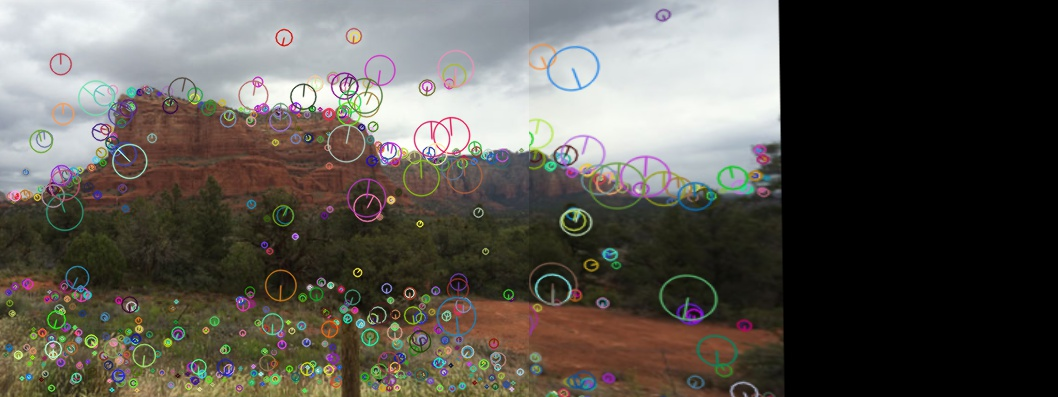
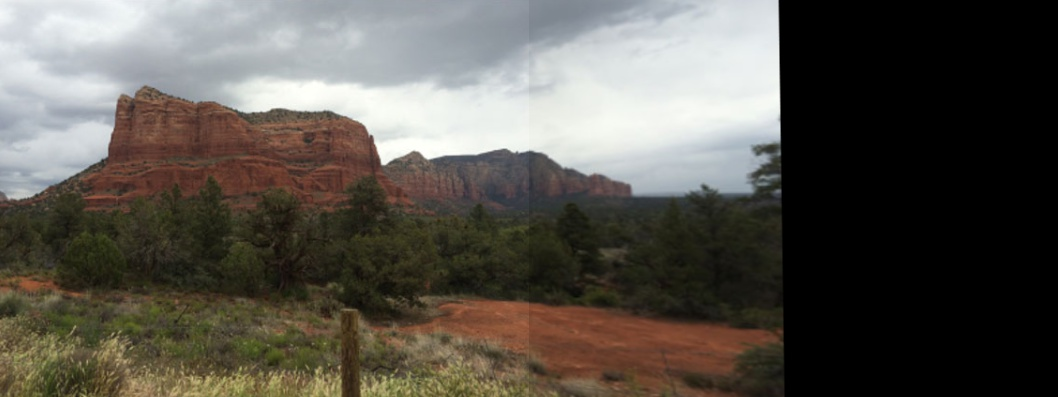
project2 complete

diff --git a/project2/task2.py b/project2/task2.py
@@ -25,100 +25,67 @@ def solution(left_img, right_img):
     :param right_img:
     :return: you need to return the result image which is stitched by left_img and right_img
     """
-    # 1 Find Key point using harris detector
-    lgray = cv2.cvtColor(left_img, cv2.COLOR_BGR2GRAY)
-    lgray = np.float32(lgray)
-    # dst = cv2.cornerHarris(lgray, 2, 3, 0.04)
-    # dst = cv2.dilate(dst, None)
-    # left_img[dst > 0.01 * dst.max()] = [0, 0, 255]
-    # cv2.imshow('left', left_img)
-    # if cv2.waitKey(0) & 0xff == 27:
-    #     cv2.destroyAllWindows()
+    print_results = False
 
-    rgray = cv2.cvtColor(right_img, cv2.COLOR_BGR2GRAY)
-    rgray = np.float32(rgray)
-    # dst = cv2.cornerHarris(rgray, 2, 3, 0.04)
-    # dst = cv2.dilate(dst, None)
-    # right_img[dst > 0.01 * dst.max()] = [0, 0, 255]
-    # cv2.imshow('right', right_img)
-    # if cv2.waitKey(0) & 0xff == 27:
-    #     cv2.destroyAllWindows()
+    # Get grayscale images
+    left_gray = np.float32(cv2.cvtColor(left_img, cv2.COLOR_BGR2GRAY))
+    right_gray = np.float32(cv2.cvtColor(right_img, cv2.COLOR_BGR2GRAY))
 
-    # 2 use SIFT to extracture featrures
-    # use cv2.xfeatures2d.SIFT_create()
+
+
+    # 1: Use Kaze to fiind the features
     kaze = cv2.KAZE_create(threshold=20)
-    lkp, ldesc = kaze.detectAndCompute(lgray, None)
-    left_img = cv2.drawKeypoints(left_img, lkp, left_img, flags=cv2.DrawMatchesFlags_DRAW_RICH_KEYPOINTS)
-    # cv2.imshow('left', left_img)
-    # if cv2.waitKey(0) & 0xff == 27:
-    #     cv2.destroyAllWindows()
+    right_keypoints, right_desc = kaze.detectAndCompute(right_gray, None)
+    left_keypoints, left_desc = kaze.detectAndCompute(left_gray, None)
 
-    length = len(lkp)
-    print(length)
+    if print_results:
+        # draw the keypoints on the images
+        left_kps = cv2.drawKeypoints(left_img, left_keypoints, np.empty(left_img.shape),
+                                     flags=cv2.DrawMatchesFlags_DRAW_RICH_KEYPOINTS)
+        right_kps = cv2.drawKeypoints(right_img, right_keypoints, np.empty(right_img.shape),
+                                      flags=cv2.DrawMatchesFlags_DRAW_RICH_KEYPOINTS)
+        cv2.imshow('left keypoints', left_kps)
+        cv2.imshow('right keypoints', right_kps)
 
-    # kaze = cv2.KAZE_create(threshold=40)
-    rkp, rdesc = kaze.detectAndCompute(rgray, None)
-    right_img = cv2.drawKeypoints(right_img, rkp, right_img, flags=cv2.DrawMatchesFlags_DRAW_RICH_KEYPOINTS)
-    # cv2.imshow('right', right_img)
-    # if cv2.waitKey(0) & 0xff == 27:
-    #     cv2.destroyAllWindows()
-
-    length = len(rkp)
-    print(length)
-
-
-    # 3 match key points
-    matcher = cv2.BFMatcher()
-    nn_matches = matcher.knnMatch(ldesc, rdesc, 2)
-
-    # matched1 = []
-    # matched2 = []
+    # 2: Match key points (brute force matching could be improved upon)
     matches = []
-    nn_match_ratio = 0.5  # Nearest neighbor matching ratio
-    print(len(nn_matches))
+    nn_match_ratio = 0.5  # matching ratio
 
+    matcher = cv2.BFMatcher()
+    nn_matches = matcher.knnMatch(left_desc, right_desc, 2)
     for m, n in nn_matches:
         if m.distance < nn_match_ratio * n.distance:
             matches.append(m)
-            # matched2.append(rkp[m.trainIdx])
 
-    print(len(matches))
 
-    # DMatch vectors
-    # matches = []
-    # for i in range(len(matched1)):
-    #     matches.append(cv2.DMatch(i, i), 0)
+    if print_results:
+        # draw all matches
+        res = np.empty((max(left_img.shape[0], right_img.shape[0]), left_img.shape[1] + right_img.shape[1], 3), dtype=np.uint8)
+        res = cv2.drawMatches(left_img, left_keypoints, right_img, right_keypoints, matches, res,
+                              flags=cv2.DrawMatchesFlags_NOT_DRAW_SINGLE_POINTS)
 
-    res = np.empty((max(left_img.shape[0], right_img.shape[0]), left_img.shape[1] + right_img.shape[1], 3), dtype=np.uint8)
-    out2 = cv2.drawMatches(left_img, lkp, right_img, rkp, matches, res,
-                          flags=cv2.DrawMatchesFlags_NOT_DRAW_SINGLE_POINTS)
+        cv2.imshow('matched keypoints', res)
 
-    cv2.imshow('out2', out2)
-    # if cv2.waitKey(0) & 0xff == 27:
-    #     cv2.destroyAllWindows()
-
-    left_pts = np.float32([lkp[m.queryIdx].pt for m in matches]).reshape(-1, 1, 2)
-    right_pts = np.float32([rkp[m.trainIdx].pt for m in matches]).reshape(-1, 1, 2)
-    # 4 compute the homographymatrix using RANSAC
+    # 3: Compute the homeography matrix using RANSAC
+    left_pts = np.float32([left_keypoints[m.queryIdx].pt for m in matches])
+    right_pts = np.float32([right_keypoints[m.trainIdx].pt for m in matches])#.reshape(-1, 1, 2)
     H, _ = cv2.findHomography(right_pts, left_pts, cv2.RANSAC, 5.0)
-    M1, mask1 = cv2.findHomography(left_pts, right_pts, cv2.RANSAC, 5.0)
-    print(H)
-    print(M1)
+    # Gives a transformation from the right coords to the left coords
 
-    # 5 us the homographic matrix to stitch the images together
-    # i am giong to use the left image as the base image and warp the right image so that the
-    res = (right_img.shape[1]+left_img.shape[1], right_img.shape[0])
-    result = cv2.warpPerspective(right_img, H, res)
-    cv2.imshow('pre-stitch-result', result)
+    # 4: Use the homographic matrix to stitch the images together
+    dims = (right_img.shape[1]+left_img.shape[1], right_img.shape[0])
+    result = cv2.warpPerspective(right_img, H, dims) # warp the right image into left image coords
+
+    if print_results:
+       cv2.imshow('transformed image', result)
+
     result[0:left_img.shape[0], 0:left_img.shape[1]] = left_img
-    # result[0:left_img.shape[0], 0:left_img.shape[1]] += left_img
 
-
-
-
-    cv2.imshow('result', result)
-    if cv2.waitKey(0) & 0xff == 27:
-        cv2.destroyAllWindows()
+    if print_results:
+        cv2.imshow('result', result)
+        # Clean up the images
+        if cv2.waitKey(0) & 0xff == 27:
+            cv2.destroyAllWindows()
 
     return result
 
